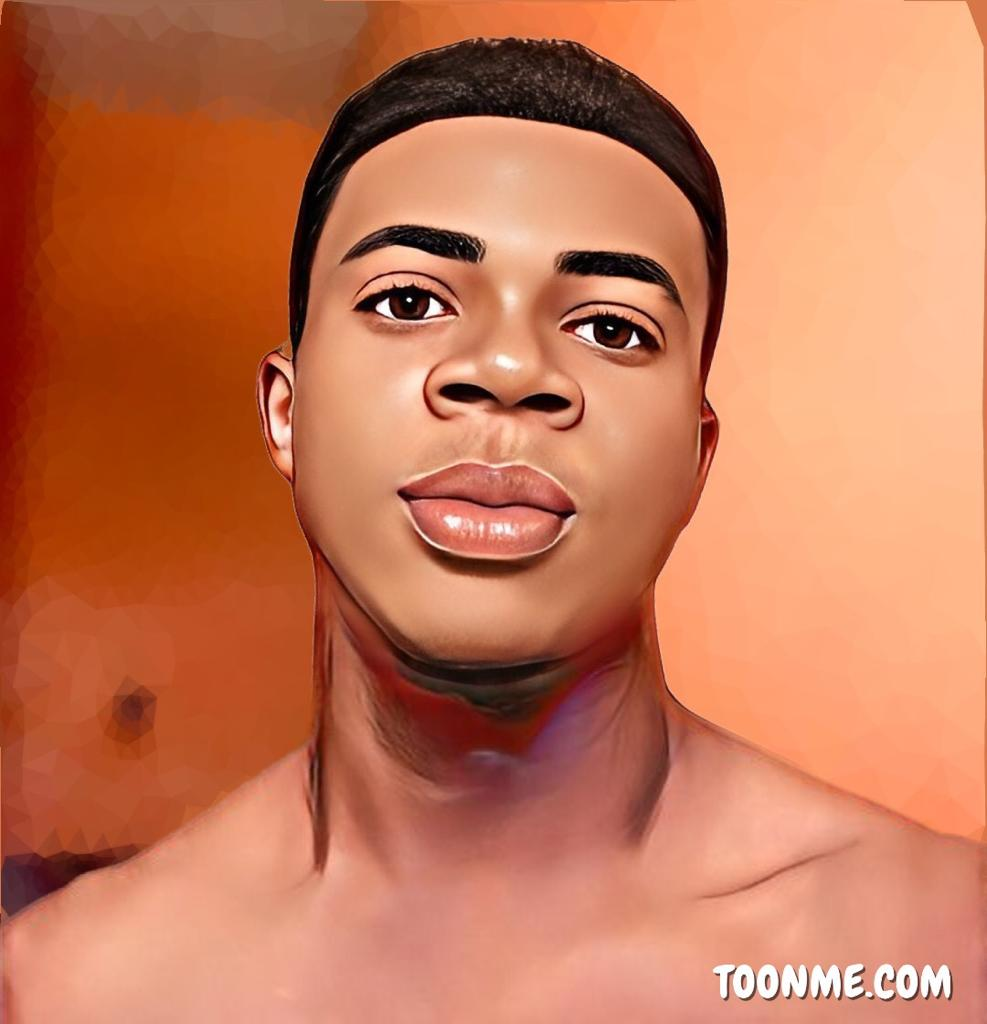
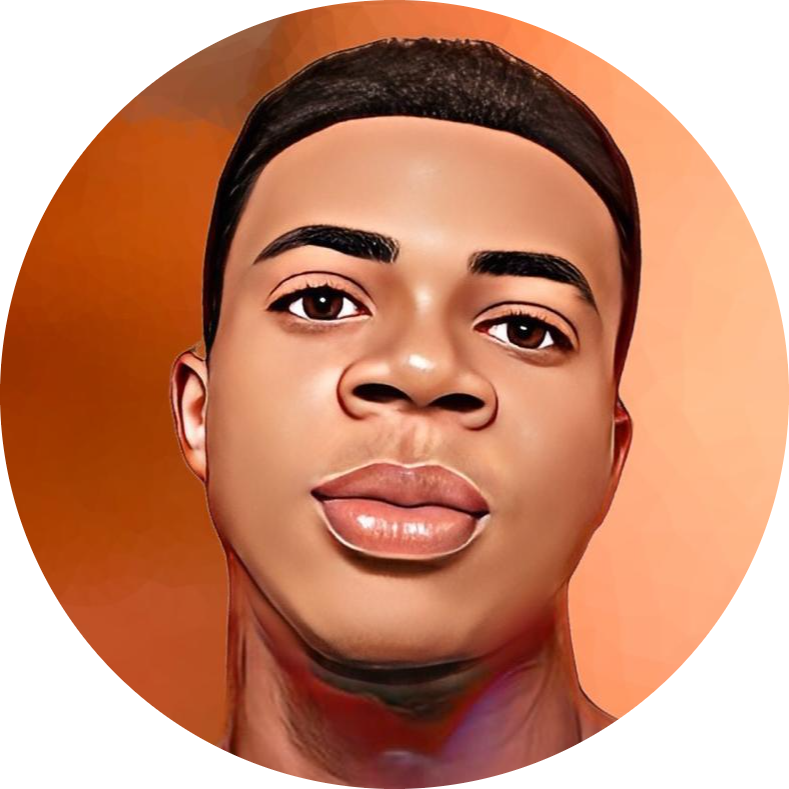
made a change

diff --git a/index.html b/index.html
@@ -9,7 +9,7 @@
 <body>
     <table cellspacing="10">
         <tr>
-            <td><img src="obinna.jpg" alt="" width="40%" height="40%"></td>
+            <td><img src="obinna.jpg" alt="" width="100%" height="60%"></td>
             <td><h1>Chijioke Obinna</h1>
             <p><em>Student at <strong> <a href="Capacitybay.com">Capacitybay</a></strong></em></p>
         <p>I am learning to be a web developer, so that i can also help make huge contributions to the wed development community</p></td>
